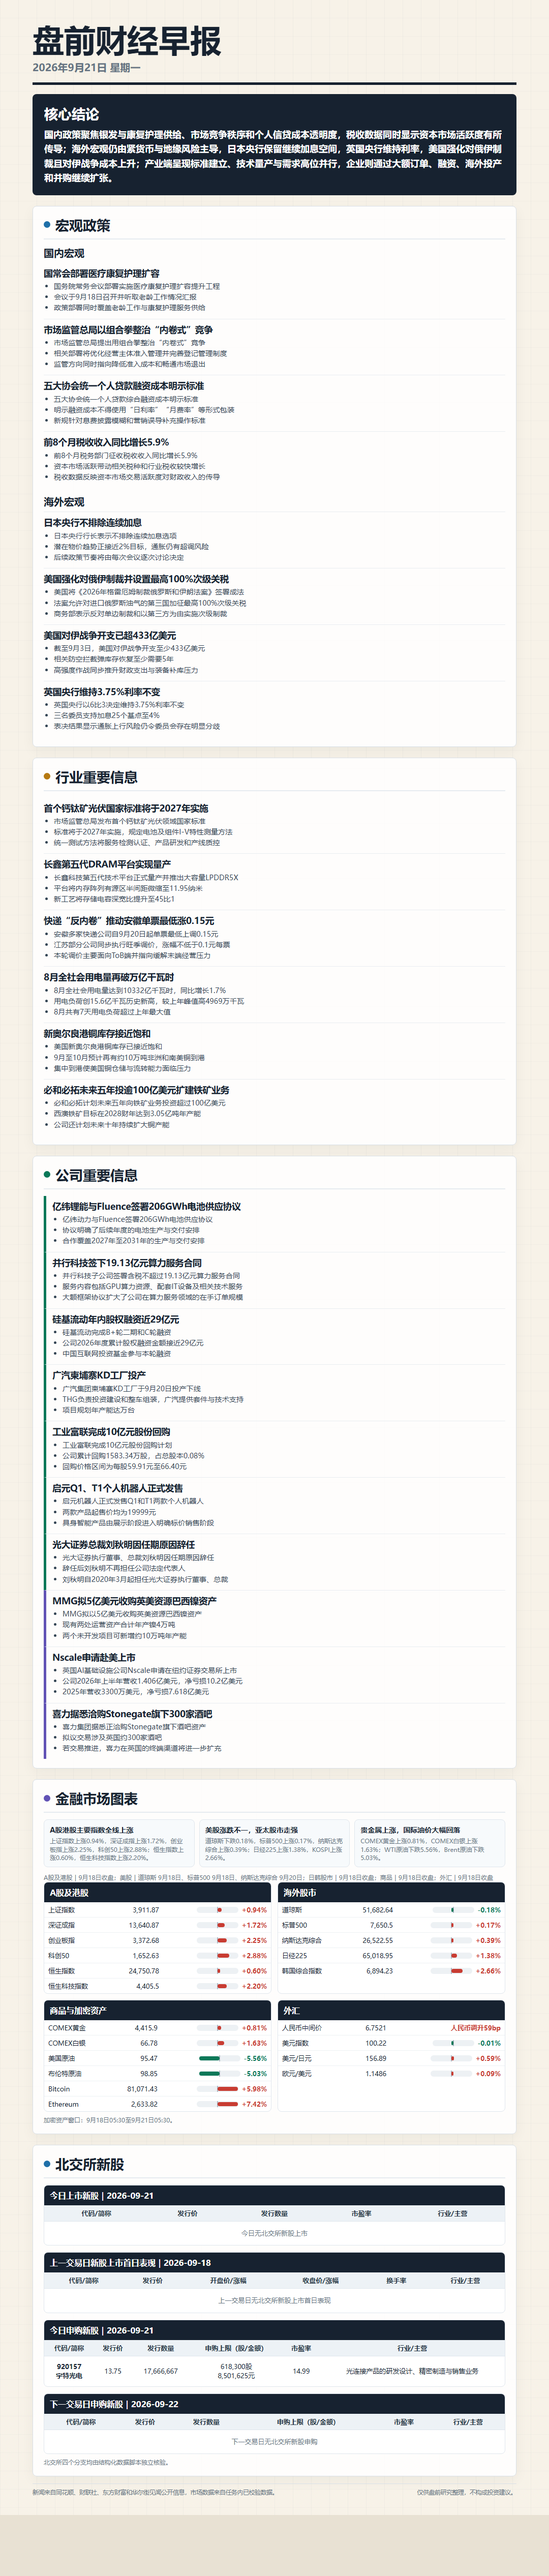
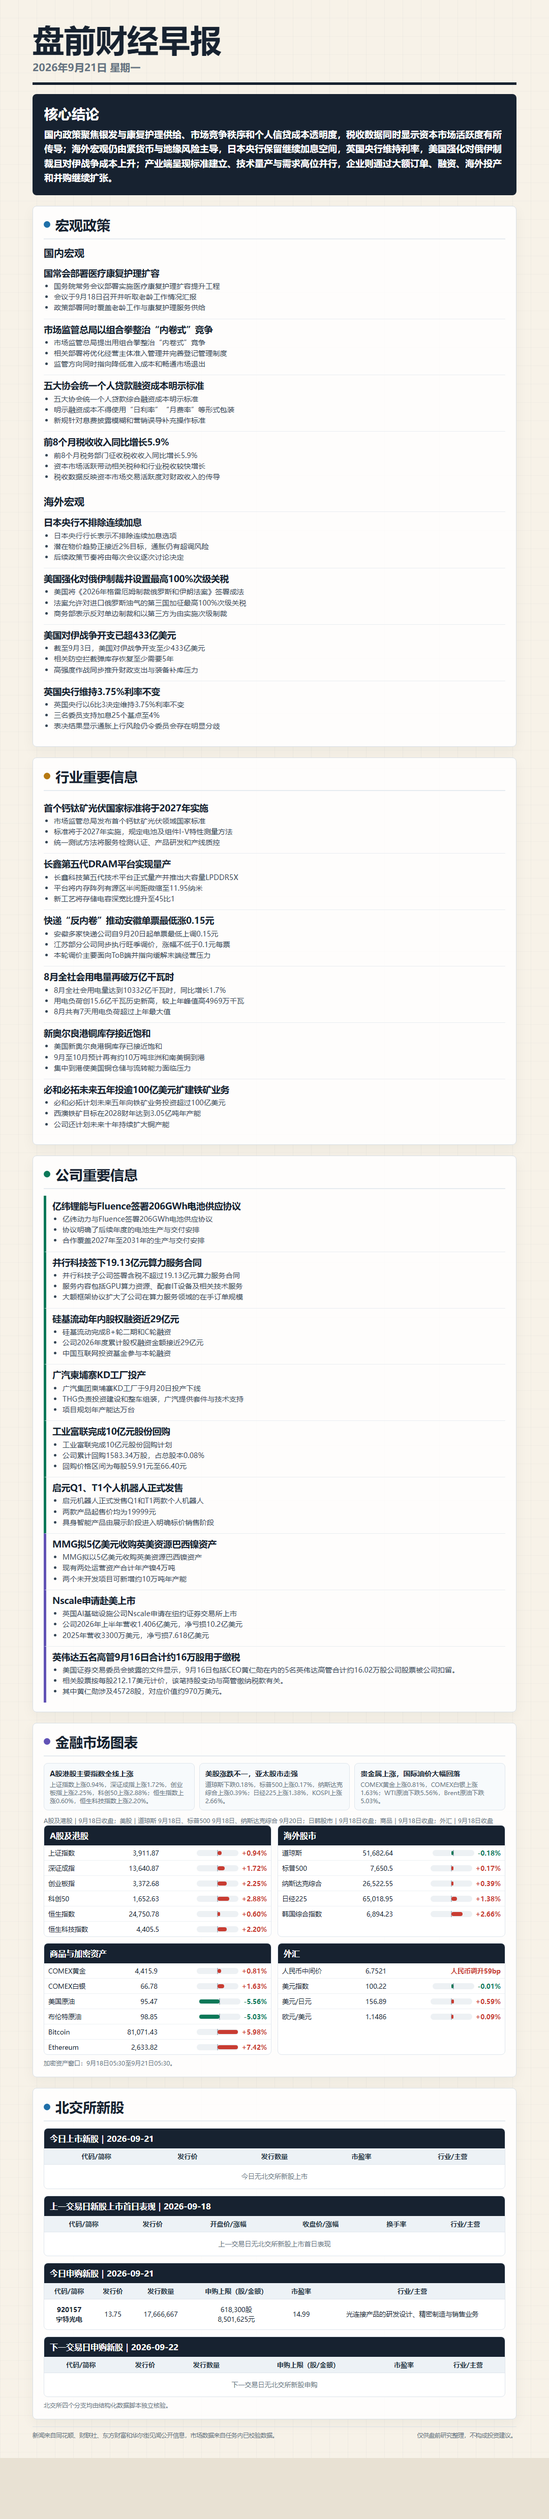
Correct 2026-09-21 morning brief

Changed region(s): [[0.0611, 0.0, 0.9472, 0.9635]]

diff --git a/2026-09-21/report.html b/2026-09-21/report.html
@@ -107,10 +107,6 @@
       <h4>启元Q1、T1个人机器人正式发售</h4>
       <ul><li>启元机器人正式发售Q1和T1两款个人机器人</li><li>两款产品起售价均为19999元</li><li>具身智能产品由展示阶段进入明确标价销售阶段</li></ul>
     </article>
-    <article class="item company-line">
-      <h4>光大证券总裁刘秋明因任期原因辞任</h4>
-      <ul><li>光大证券执行董事、总裁刘秋明因任期原因辞任</li><li>辞任后刘秋明不再担任公司法定代表人</li><li>刘秋明自2020年3月起担任光大证券执行董事、总裁</li></ul>
-    </article>
     <article class="item company-line overseas">
       <h4>MMG拟5亿美元收购英美资源巴西镍资产</h4>
       <ul><li>MMG拟以5亿美元收购英美资源巴西镍资产</li><li>现有两处运营资产合计年产镍4万吨</li><li>两个未开发项目可新增约10万吨年产能</li></ul>
@@ -120,8 +116,8 @@
       <ul><li>英国AI基础设施公司Nscale申请在纽约证券交易所上市</li><li>公司2026年上半年营收1.406亿美元，净亏损10.2亿美元</li><li>2025年营收3300万美元，净亏损7.618亿美元</li></ul>
     </article>
     <article class="item company-line overseas">
-      <h4>喜力据悉洽购Stonegate旗下300家酒吧</h4>
-      <ul><li>喜力集团据悉正洽购Stonegate旗下酒吧资产</li><li>拟议交易涉及英国约300家酒吧</li><li>若交易推进，喜力在英国的终端渠道将进一步扩充</li></ul>
+      <h4>英伟达五名高管9月16日合计约16万股用于缴税</h4>
+      <ul><li>美国证券交易委员会披露的文件显示，9月16日包括CEO黄仁勋在内的5名英伟达高管合计约16.02万股公司股票被公司扣留。</li><li>相关股票按每股212.17美元计价，该笔持股变动与高管缴纳税款有关。</li><li>其中黄仁勋涉及45728股，对应价值约970万美元。</li></ul>
     </article></section>
   <section class="section"><h2 class="section-title"><span class="dot" style="background:var(--violet)"></span>金融市场图表</h2><div class="market-headlines"><div class="market-note"><b>A股港股主要指数全线上涨</b><span>上证指数上涨0.94%，深证成指上涨1.72%，创业板指上涨2.25%，科创50上涨2.88%；恒生指数上涨0.60%，恒生科技指数上涨2.20%。</span></div><div class="market-note"><b>美股涨跌不一，亚太股市走强</b><span>道琼斯下跌0.18%，标普500上涨0.17%，纳斯达克综合上涨0.39%；日经225上涨1.38%，KOSPI上涨2.66%。</span></div><div class="market-note"><b>贵金属上涨，国际油价大幅回落</b><span>COMEX黄金上涨0.81%，COMEX白银上涨1.63%；WTI原油下跌5.56%，Brent原油下跌5.03%。</span></div></div><p class="market-caption">A股及港股｜9月18日收盘；美股｜道琼斯 9月18日、标普500 9月18日、纳斯达克综合 9月20日；日韩股市｜9月18日收盘；商品｜9月18日收盘；外汇｜9月18日收盘</p><div class="market-grid"><div class="market-box"><h3>A股及港股</h3><table><tr><td>上证指数</td><td>3,911.87</td><td><span class="bar-wrap"><span class="bar pos upb" style="width:7.5px"></span></span><span class="up">+0.94%</span></td></tr><tr><td>深证成指</td><td>13,640.87</td><td><span class="bar-wrap"><span class="bar pos upb" style="width:13.8px"></span></span><span class="up">+1.72%</span></td></tr><tr><td>创业板指</td><td>3,372.68</td><td><span class="bar-wrap"><span class="bar pos upb" style="width:18.0px"></span></span><span class="up">+2.25%</span></td></tr><tr><td>科创50</td><td>1,652.63</td><td><span class="bar-wrap"><span class="bar pos upb" style="width:23.1px"></span></span><span class="up">+2.88%</span></td></tr><tr><td>恒生指数</td><td>24,750.78</td><td><span class="bar-wrap"><span class="bar pos upb" style="width:4.8px"></span></span><span class="up">+0.60%</span></td></tr><tr><td>恒生科技指数</td><td>4,405.5</td><td><span class="bar-wrap"><span class="bar pos upb" style="width:17.6px"></span></span><span class="up">+2.20%</span></td></tr></table></div><div class="market-box"><h3>海外股市</h3><table><tr><td>道琼斯</td><td>51,682.64</td><td><span class="bar-wrap"><span class="bar neg downb" style="width:4.0px"></span></span><span class="down">-0.18%</span></td></tr><tr><td>标普500</td><td>7,650.5</td><td><span class="bar-wrap"><span class="bar pos upb" style="width:4.0px"></span></span><span class="up">+0.17%</span></td></tr><tr><td>纳斯达克综合</td><td>26,522.55</td><td><span class="bar-wrap"><span class="bar pos upb" style="width:4.0px"></span></span><span class="up">+0.39%</span></td></tr><tr><td>日经225</td><td>65,018.95</td><td><span class="bar-wrap"><span class="bar pos upb" style="width:11.0px"></span></span><span class="up">+1.38%</span></td></tr><tr><td>韩国综合指数</td><td>6,894.23</td><td><span class="bar-wrap"><span class="bar pos upb" style="width:21.3px"></span></span><span class="up">+2.66%</span></td></tr></table></div><div class="market-box"><h3>商品与加密资产</h3><table><tr><td>COMEX黄金</td><td>4,415.9</td><td><span class="bar-wrap"><span class="bar pos upb" style="width:6.4px"></span></span><span class="up">+0.81%</span></td></tr><tr><td>COMEX白银</td><td>66.78</td><td><span class="bar-wrap"><span class="bar pos upb" style="width:13.0px"></span></span><span class="up">+1.63%</span></td></tr><tr><td>美国原油</td><td>95.47</td><td><span class="bar-wrap"><span class="bar neg downb" style="width:40.0px"></span></span><span class="down">-5.56%</span></td></tr><tr><td>布伦特原油</td><td>98.85</td><td><span class="bar-wrap"><span class="bar neg downb" style="width:40.0px"></span></span><span class="down">-5.03%</span></td></tr><tr><td>Bitcoin</td><td>81,071.43</td><td><span class="bar-wrap"><span class="bar pos upb" style="width:40.0px"></span></span><span class="up">+5.98%</span></td></tr><tr><td>Ethereum</td><td>2,633.82</td><td><span class="bar-wrap"><span class="bar pos upb" style="width:40.0px"></span></span><span class="up">+7.42%</span></td></tr></table></div><div class="market-box"><h3>外汇</h3><table><tr><td>人民币中间价</td><td>6.7521</td><td><span class="up">人民币调升59bp</span></td></tr><tr><td>美元指数</td><td>100.22</td><td><span class="bar-wrap"><span class="bar neg downb" style="width:4.0px"></span></span><span class="down">-0.01%</span></td></tr><tr><td>美元/日元</td><td>156.89</td><td><span class="bar-wrap"><span class="bar pos upb" style="width:4.7px"></span></span><span class="up">+0.59%</span></td></tr><tr><td>欧元/美元</td><td>1.1486</td><td><span class="bar-wrap"><span class="bar pos upb" style="width:4.0px"></span></span><span class="up">+0.09%</span></td></tr></table></div></div><p class="market-caption">加密资产窗口：9月18日05:30至9月21日05:30。</p></section>
   <section class="section"><h2 class="section-title"><span class="dot" style="background:var(--blue)"></span>北交所新股</h2><div class="ipo-box"><h3>今日上市新股｜2026-09-21</h3><table class="ipo-table"><tr><th>代码/简称</th><th>发行价</th><th>发行数量</th><th>市盈率</th><th>行业/主营</th></tr><tr><td class="empty" colspan="5">今日无北交所新股上市</td></tr></table></div><div class="ipo-box"><h3>上一交易日新股上市首日表现｜2026-09-18</h3><table class="ipo-table"><tr><th>代码/简称</th><th>发行价</th><th>开盘价/涨幅</th><th>收盘价/涨幅</th><th>换手率</th><th>行业/主营</th></tr><tr><td class="empty" colspan="6">上一交易日无北交所新股上市首日表现</td></tr></table></div><div class="ipo-box"><h3>今日申购新股｜2026-09-21</h3><table class="ipo-table"><tr><th>代码/简称</th><th>发行价</th><th>发行数量</th><th>申购上限（股/金额）</th><th>市盈率</th><th>行业/主营</th></tr><tr><td class="codecell">920157<br>宇特光电</td><td>13.75</td><td>17,666,667</td><td class="shares">618,300股<br>8,501,625元</td><td>14.99</td><td>光连接产品的研发设计、精密制造与销售业务</td></tr></table></div><div class="ipo-box"><h3>下一交易日申购新股｜2026-09-22</h3><table class="ipo-table"><tr><th>代码/简称</th><th>发行价</th><th>发行数量</th><th>申购上限（股/金额）</th><th>市盈率</th><th>行业/主营</th></tr><tr><td class="empty" colspan="6">下一交易日无北交所新股申购</td></tr></table></div><div class="check-note">北交所四个分支均由结构化数据脚本独立核验。</div></section>

diff --git a/2026-09-21/sources-2026-09-21.md b/2026-09-21/sources-2026-09-21.md
@@ -30,7 +30,6 @@
 - domesticCompanies: 广汽集团柬埔寨KD工厂投产 规划年产能达万台 - http://news.10jqka.com.cn/20260920/c680091165.shtml
 - domesticCompanies: 工业富联：完成10亿元股份回购计划 回购价格区间59.91元/股至66.40元/股 - https://www.cls.cn/detail/2487232
 - domesticCompanies: 启元机器人正式发售“个人机器人”启元Q1、启元T1，起售价均为19999元 - http://news.10jqka.com.cn/20260920/c680098341.shtml
-- domesticCompanies: 光大证券总裁刘秋明辞任 - https://www.cls.cn/detail/2487345
 - overseasCompanies: MMG拟斥资5亿美元收购英美资源巴西镍资产，计划投资数十亿美元扩产 - https://wallstreetcn.com/livenews/3167518
 - overseasCompanies: 英伟达参与投资的数据中心公司Nscale申请美国IPO - https://www.cls.cn/detail/2487663
-- overseasCompanies: 财联社9月19日电，喜力集团据悉洽购英国最大酒吧运营商Stonegate旗下300家酒吧 - https://www.cls.cn/detail/2487877
+- overseasCompanies: 黄仁勋等5名高管 逾16万股缴税 - https://finance.eastmoney.com/a/202609193879192812.html
